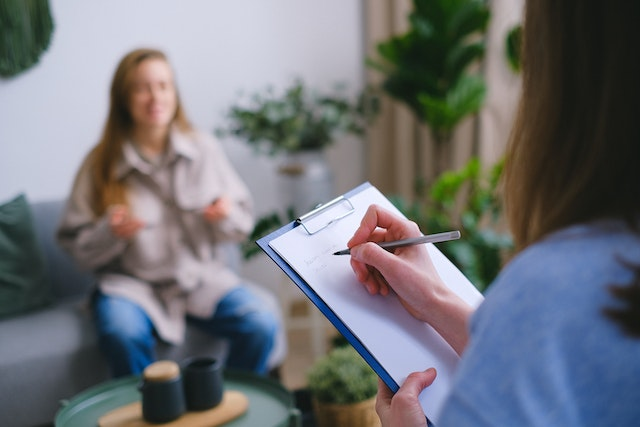
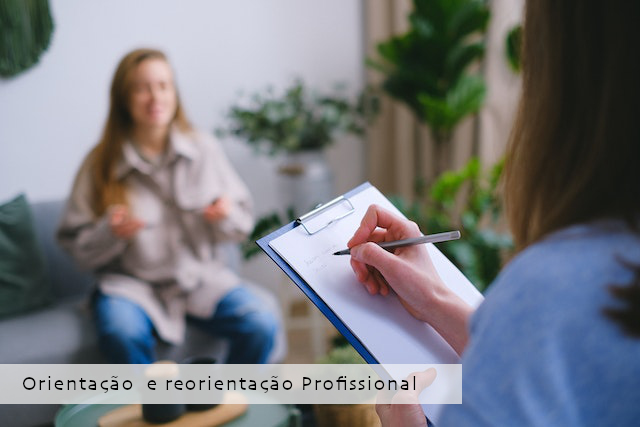
mudanca

Changed region(s): [[0.0, 0.8525, 0.7188, 0.9438]]

diff --git a/style.css b/style.css
@@ -31,11 +31,11 @@
 
 
   .thica{
-background: url(imagem/marca\ thialy\ 2022.png) no-repeat;
+  background: url(imagem/marca\ thialy\ 2022.png) no-repeat;
   background-size: contain;
-  width: 200px;
+  width: 160px;
   height: 90px;
-  margin: 0 ;
+  margin: 10px 0 0 -40px ;
   }
 
   nav{
@@ -47,6 +47,7 @@ background: url(imagem/marca\ thialy\ 2022.png) no-repeat;
     box-shadow: 3px -4px 7px 0px rgba(162, 162, 162, 0.563) inset;
     height: 100px;
     z-index: 13;
+    
   }
 
   .nav-list{
@@ -76,8 +77,13 @@ background: url(imagem/marca\ thialy\ 2022.png) no-repeat;
   }
 
   @media (max-width: 999px){
+
+    
     body{
         overflow-x: hidden;
+    }
+    main{
+      
     }
     a{
         color: rgb(0, 0, 0);
@@ -98,7 +104,6 @@ background: url(imagem/marca\ thialy\ 2022.png) no-repeat;
         justify-content: space-around;
         transform: translateX(100%);
         transition: transform 0.3s ease-in;
-        position: fixed;
         z-index: 10;
         
     }
@@ -247,56 +252,100 @@ background: url(imagem/marca\ thialy\ 2022.png) no-repeat;
 /*aqui termina o carrosel*/
 
 .quemsoueu{
-  position;
-  
+  position: relative;
   
 }
+.h11{
+  text-align: center;
+  font-family: louislight;
+  color: #7D7675;
+  font-size: 2.2em;
+  
+  margin: 60px 0 60px 0;
+  
 
+}
 .fotothica{
   background-color: white;
   justify-content: center;
-  align-items: center;
   display: flex;
   height: 300px;
+
 }
 
 .thicafoto{
-  margin-top: 30px;
+  position: absolute;
+  width: 480px;
   height: 300px;
+  box-shadow: 4px 7px 4px rgba(0, 0, 0, 0.21);
 
-}
 
-h1{
-  font-family: louislight;
-  color: gray;
-  text-align: center;
-  font-size: 2.2em;
-  margin-top: 60px;
 }
 
 p{
   font-family: louislight;
   text-align: center;
-  padding: 30px;
-  color: gray;
-}
-
-.capacitacao{
-  position: relative;
-background-color: white;
-background: url(imagem/capacitacao.png) no-repeat;
-background-size: cover;
-width: 100%;
-height: 600px;
-
-}
-
-.cap{
-  font-family: louisbold;
-  color: rgb(44, 44, 44);
-  left: 40px;
-  font-size: 2.2em;
-  position: absolute;
+  padding: 20px;
+  color: #7D5350;
   
+  
+}
+
+.servicos{
+  margin-top: 50px;
+background: url(imagem/sectionservicos2.png) no-repeat;
+background-size: cover;
+  width: 100%;
+  height: 1300px;
+  display: inline-block;
+  justify-content: center;
+}
+
+.serv{
+  text-align: center;
+  font-family: louislight;
+  color: #7D7675;
+  font-size: 2.2em;
+  margin: 30px 0 50px 0;
 
 }
+
+.imgserv1{
+  background: url(imagem/servico2.png) no-repeat;
+  background-size: cover;
+  width: 200px;
+  height: 200px;
+  margin: 20px auto 0 auto;
+}
+
+.imgserv2{
+  background: url(imagem/servico01.png) no-repeat;
+  background-size: cover;
+  width: 200px;
+  height: 200px;
+  margin: 20px auto 0 auto;
+}
+
+.imgserv3{
+  background: url(imagem/servico3.png) no-repeat;
+  background-size: cover;
+  width: 200px;
+  height: 200px;
+  margin: 20px auto 0 auto;
+}
+
+.imgserv4{
+  background: url(imagem/servico4.png) no-repeat;
+  background-size: cover;
+  width: 200px;
+  height: 200px;
+  margin: 20px auto 0 auto;
+}
+
+.linha{
+  width: 80%;
+  height: 2px;
+  background-color: #7d767545;
+  margin: auto;
+}
+

diff --git a/index.html b/index.html
@@ -71,17 +71,39 @@
         <main>
 
             <section class="quemsoueu">
-                <h1>Quem sou eu?</h1>
+                <h1 class="h11">Quem sou eu?</h1>
                 <div class="fotothica">
                     <img src="imagem/quem sou eu.png" alt="fotothica" class="thicafoto">
                 </div>
                 <p>Lorem ipsum dolor sit amet, consectetur adipisicing elit. Architecto, placeat numquam error, commodi voluptate labore nihil, ipsam soluta exercitationem neque ducimus praesentium id possimus porro est quod accusamus sit. Tempora. Lorem ipsum dolor sit amet consectetur adipisicing elit. Nesciunt laudantium nulla unde quaerat ducimus ipsum, consequatur ex eaque id excepturi magnam veniam odio laborum ea ipsam rem aperiam, omnis facilis.</p>
             </section>
 
-            <section class="capacitacao">
-                <h1 class="cap">Capacitações</h1>
 
+            <section class="servicos">
+                <h1 class="serv">Serviços</h1>
 
+                <div class="imgserv1"></div>
+                <p>Psicoterapia Presencial</p>
+
+                <div class="linha"></div>
+
+                <div class="imgserv2"></div>
+                <p>Psicoterapia on-line</p>
+
+                <div class="linha"></div>
+
+                <div class="imgserv3"></div>
+                <p>Avaliação Neuropsicológica</p>
+
+                <div class="linha"></div>
+
+                <div class="imgserv4"></div>
+                <p>Orientação e reorientação profissional</p>
+                
+            </section>
+
+            <section class="cursos">
+                <h1>Cursos</h1>
             </section>
 
 
